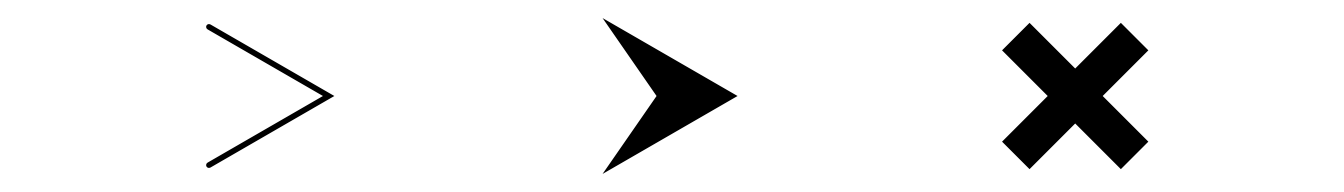
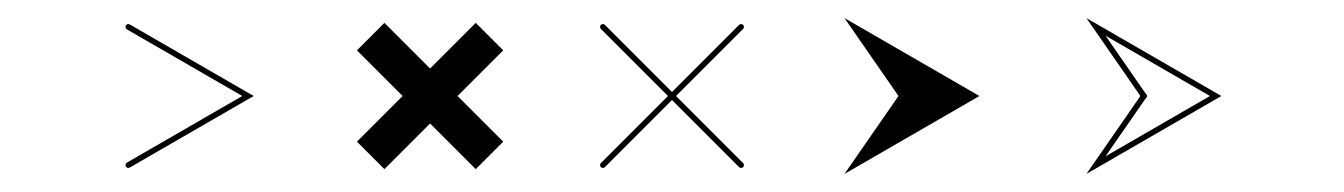
update documentation [skip ci]

diff --git a/docs/articles/edge-glyphs.html b/docs/articles/edge-glyphs.html
@@ -105,7 +105,7 @@
                         <h4 data-toc-skip class="author">Sysbiolab
 Team</h4>
             
-            <h4 data-toc-skip class="date">2026-10-08</h4>
+            <h4 data-toc-skip class="date">2026-10-10</h4>
       
       <small class="dont-index">Source: <a href="https://github.com/sysbiolab/RGraphSpace/blob/HEAD/vignettes/articles/edge-glyphs.Rmd" class="external-link"><code>vignettes/articles/edge-glyphs.Rmd</code></a></small>
       <div class="d-none name"><code>edge-glyphs.Rmd</code></div>
@@ -391,7 +391,7 @@ read as the end glyph of its edge.</p>
 <span></span>
 <span><span class="va">gs_star</span></span>
 <span><span class="co">#&gt; A GraphSpace-class object for:</span></span>
-<span><span class="co">#&gt; IGRAPH 63f424f DN-- 34 33 -- </span></span>
+<span><span class="co">#&gt; IGRAPH 5354575 DN-- 34 33 -- </span></span>
 <span><span class="co">#&gt; + attr: x (v/n), y (v/n), name (v/c), nodeLabel (v/c), nodeSize (v/n),</span></span>
 <span><span class="co">#&gt; | arrowType (e/c), Group (e/c)</span></span>
 <span><span class="co">#&gt; + node spatial boundaries: raw graph</span></span>
@@ -488,36 +488,34 @@ opposite sides. The origin is where the edge meets the node.</p>
 <span><span class="co">#&gt;      [,1]       [,2]</span></span>
 <span><span class="co">#&gt; [1,]   -1  0.5773503</span></span>
 <span><span class="co">#&gt; [2,]    0  0.0000000</span></span>
-<span><span class="co">#&gt; [3,]   -1 -0.5773503</span></span></code></pre></div>
+<span><span class="co">#&gt; [3,]   -1 -0.5773503</span></span>
+<span><span class="va">GlyphArrow</span><span class="op">$</span><span class="va">draw</span></span>
+<span><span class="co">#&gt; [1] "polyline"</span></span>
+<span><span class="va">GlyphArrow</span><span class="op">$</span><span class="va">token</span></span>
+<span><span class="co">#&gt; [1] "&gt;"</span></span></code></pre></div>
 <p>The same kind of matrix can be drawn in different ways, specified by
-the prototype’s drawing method. The arrowhead is a
-<code>"polyline"</code>, so its points are joined in order, from arm to
-tip to arm. The cross is drawn as <code>"segments"</code>, which takes
-points in pairs, each pair forming one stroke.</p>
+the prototype’s drawing method. The basic arrowhead <code>"&gt;"</code>
+is a <code>"polyline"</code>, so its points are joined in order, from
+arm to tip to arm, while the cross glyph <code>"|10"</code> is drawn as
+<code>"segments"</code>, which takes points in pairs, each pair forming
+one stroke.</p>
 <div class="sourceCode" id="cb18"><pre class="downlit sourceCode r">
-<code class="sourceCode R"><span><span class="co"># The cross, with rows 1-2 forming one stroke </span></span>
-<span><span class="co"># and rows 3-4 the other</span></span>
-<span><span class="va">GlyphCross1</span><span class="op">$</span><span class="va">shape</span></span>
-<span><span class="co">#&gt;             [,1]       [,2]</span></span>
-<span><span class="co">#&gt;  [1,] -0.8302944  0.5000000</span></span>
-<span><span class="co">#&gt;  [2,] -0.5000000  0.1697056</span></span>
-<span><span class="co">#&gt;  [3,] -0.1697056  0.5000000</span></span>
-<span><span class="co">#&gt;  [4,]  0.0000000  0.3302944</span></span>
-<span><span class="co">#&gt;  [5,] -0.3302944  0.0000000</span></span>
-<span><span class="co">#&gt;  [6,]  0.0000000 -0.3302944</span></span>
-<span><span class="co">#&gt;  [7,] -0.1697056 -0.5000000</span></span>
-<span><span class="co">#&gt;  [8,] -0.5000000 -0.1697056</span></span>
-<span><span class="co">#&gt;  [9,] -0.8302944 -0.5000000</span></span>
-<span><span class="co">#&gt; [10,] -1.0000000 -0.3302944</span></span>
-<span><span class="co">#&gt; [11,] -0.6697056  0.0000000</span></span>
-<span><span class="co">#&gt; [12,] -1.0000000  0.3302944</span></span>
-<span><span class="va">GlyphCross1</span><span class="op">$</span><span class="va">draw</span></span>
-<span><span class="co">#&gt; [1] "polygon"</span></span></code></pre></div>
+<code class="sourceCode R"><span><span class="co"># Rows 1-2 form one stroke, rows 3-4 the other</span></span>
+<span><span class="va">GlyphCross2</span><span class="op">$</span><span class="va">shape</span></span>
+<span><span class="co">#&gt;      [,1] [,2]</span></span>
+<span><span class="co">#&gt; [1,]    0  0.5</span></span>
+<span><span class="co">#&gt; [2,]   -1 -0.5</span></span>
+<span><span class="co">#&gt; [3,]    0 -0.5</span></span>
+<span><span class="co">#&gt; [4,]   -1  0.5</span></span>
+<span><span class="va">GlyphCross2</span><span class="op">$</span><span class="va">draw</span></span>
+<span><span class="co">#&gt; [1] "segments"</span></span>
+<span><span class="va">GlyphCross2</span><span class="op">$</span><span class="va">token</span></span>
+<span><span class="co">#&gt; [1] "|10"</span></span></code></pre></div>
 <p>Prototypes can be plotted for visual inspection, one or several side
 by side.</p>
 <div class="sourceCode" id="cb19"><pre class="downlit sourceCode r">
 <code class="sourceCode R"><span><span class="co"># Plot three built-in prototypes side by side</span></span>
-<span><span class="fu"><a href="https://rdrr.io/r/graphics/plot.default.html" class="external-link">plot</a></span><span class="op">(</span><span class="va">GlyphArrow</span>, <span class="va">GlyphChevron1</span>, <span class="va">GlyphCross1</span><span class="op">)</span></span></code></pre></div>
+<span><span class="fu"><a href="https://rdrr.io/r/graphics/plot.default.html" class="external-link">plot</a></span><span class="op">(</span><span class="va">GlyphArrow</span>, <span class="va">GlyphCross1</span>, <span class="va">GlyphCross2</span>, <span class="va">GlyphChevron1</span>, <span class="va">GlyphChevron2</span><span class="op">)</span></span></code></pre></div>
 <p><img src="edge-glyphs_files/figure-html/unnamed-chunk-15-1.png" class="r-plt" alt="" width="90%" style="display: block; margin: auto;"></p>
 <p>New prototypes are built with <code><a href="../reference/glyph_proto.html">glyph_proto()</a></code>, from a
 shape, a drawing method, and a token; open outlines can also set an
